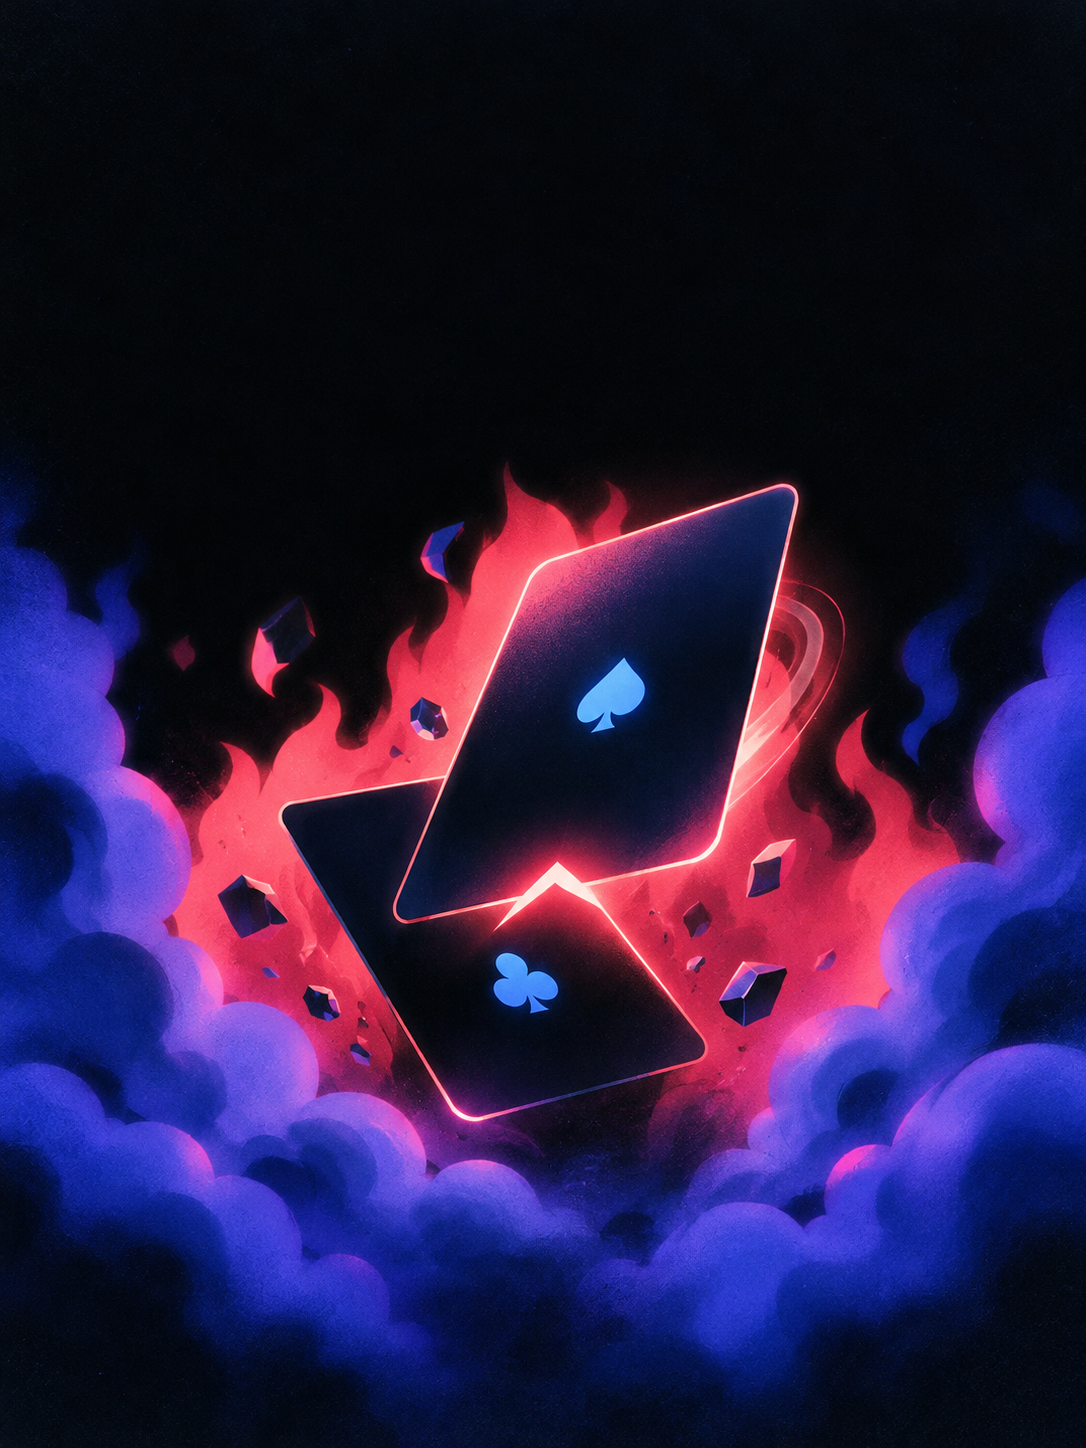
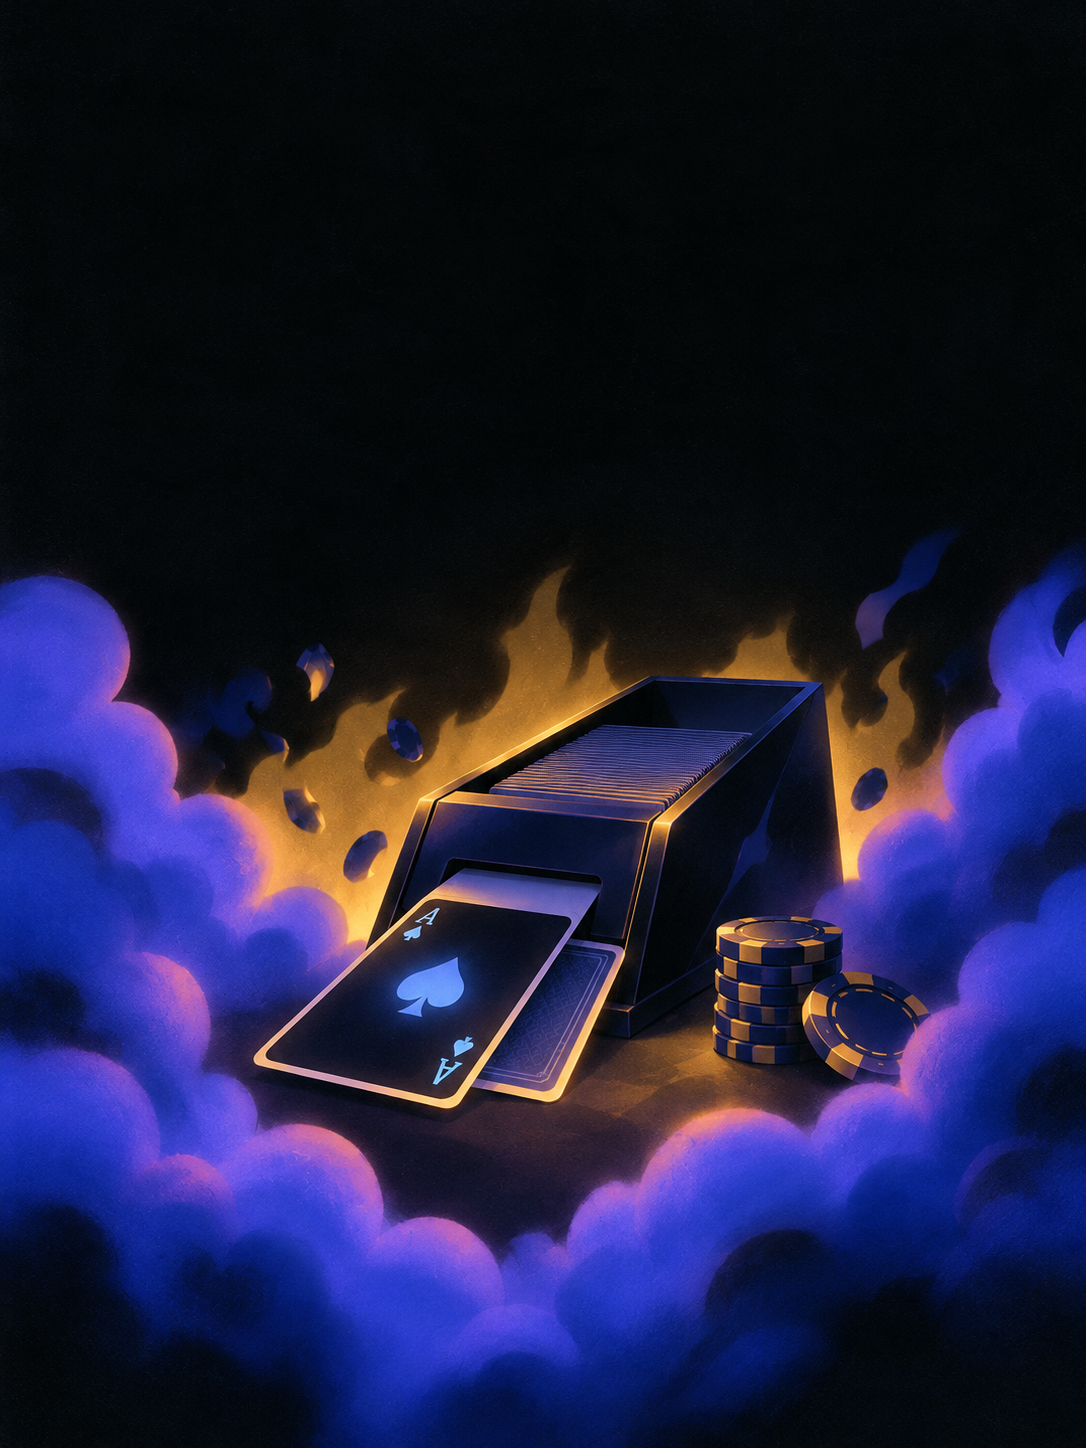
Wire the full art set: all 19 tiles, painted chest, casino-floor hero
Seven new tiles (baccarat, blackjack, flip, hilo, pump, rps, video poker),
a new roulette tile and banner, the open and closed chest frames in place
of the CSS-drawn chest, and a lobby hero with a taller phone crop. Dedupe
the master PNGs under docs/art.

Claude-Session: https://claude.ai/code/session_01JwJ7yz4tnHC44L8sbGWHgU

diff --git a/public/css/app.css b/public/css/app.css
@@ -1545,3 +1545,30 @@ body.chat-open .tabbar .tab-chat{color:var(--accent)}
 .card .art .name small{font-size:9px;font-weight:700;letter-spacing:.18em;color:rgba(255,255,255,.72);text-shadow:0 1px 4px rgba(0,0,0,.6)}
 .card .art:not(.has-img) svg{transform:translateY(8%)}
 @media (max-width:860px){.card .art .name{top:10px;font-size:13px;gap:2px}.card .art .name small{font-size:8px}}
+
+/* ============ v6: painted chest, casino-floor hero ============ */
+.chest{width:calc(190px * var(--sz,1));height:calc(190px * var(--sz,1))}
+.chest .frame{position:absolute;inset:0;width:100%;height:100%;object-fit:contain;transition:opacity .35s ease,transform .5s cubic-bezier(.34,1.25,.5,1);filter:drop-shadow(0 18px 28px rgba(0,0,0,.55))}
+.chest .frame.opened{opacity:0;transform:scale(.96)}
+.chest.open .frame.opened{opacity:1;transform:scale(1)}
+.chest.open .frame.closed{opacity:0;transform:scale(1.04)}
+.chest .glow{inset:-20%;background:radial-gradient(circle,rgba(247,217,138,.7),rgba(230,182,85,.18) 45%,transparent 68%)}
+.chest .coins{left:14%;right:14%;top:8%;height:46%;opacity:0}
+.chest.open .coins{opacity:1}
+.chest .coins .c{width:11%;opacity:0;animation:coinfly 1.1s cubic-bezier(.2,.8,.3,1) forwards}
+.chest.open .coins .c0{left:4%;animation-delay:.05s}.chest.open .coins .c1{left:16%;animation-delay:.18s}.chest.open .coins .c2{left:28%;animation-delay:.08s}.chest.open .coins .c3{left:40%;animation-delay:.26s}.chest.open .coins .c4{left:52%;animation-delay:.12s}.chest.open .coins .c5{left:64%;animation-delay:.3s}.chest.open .coins .c6{left:76%;animation-delay:.16s}.chest.open .coins .c7{left:88%;animation-delay:.22s}.chest.open .coins .c8{left:34%;animation-delay:.36s}
+@keyframes coinfly{0%{opacity:0;transform:translateY(40%) scale(.6)}25%{opacity:1}100%{opacity:0;transform:translateY(-160%) scale(1) rotate(200deg)}}
+.chest-stage{min-height:230px}
+.chest-stage.big{min-height:300px}
+.hero-banner{align-items:flex-start}
+.hero-banner:not(.promo) .hero-img{object-position:center 45%}
+.hero-banner.promo{align-items:flex-start}
+.hero-banner.promo .hero-img{object-position:center 42%}
+.hero-banner::before{background:linear-gradient(90deg,rgba(10,11,13,.86) 0%,rgba(10,11,13,.55) 42%,rgba(10,11,13,.1) 100%),linear-gradient(180deg,rgba(10,11,13,.65),transparent 60%)}
+@media (max-width:860px){
+  .hero-banner,.hero-banner.promo{align-items:flex-start}
+  .hero-img,.hero-banner.promo .hero-img{object-position:center bottom}
+  .hero-banner::before{background:linear-gradient(180deg,rgba(10,11,13,.9) 0%,rgba(10,11,13,.72) 45%,rgba(10,11,13,.25) 75%,rgba(10,11,13,.05) 100%)}
+  .hero-banner.promo{min-height:300px}
+  .chest-stage{min-height:200px}
+}

diff --git a/public/js/app.js b/public/js/app.js
@@ -128,7 +128,7 @@ function landingPage() {
   };
   return h('div', { class: 'stack page landing' },
     h('section', { class: 'hero-banner' },
-      h('img', { class: 'hero-img', src: 'art/roulette-banner.webp', alt: '', decoding: 'async', fetchpriority: 'high' }),
+      heroPicture(true),
       h('div', { class: 'hero-copy' },
         h('div', { class: 'eyebrow' }, '19 games · play money · real odds'),
         h('h1', {}, 'The casino, with the price tag showing'),
@@ -175,6 +175,12 @@ function catCard({ title, text, href, icon, colour }) {
   el.style.setProperty('--c', colour);
   return el;
 }
+/** The painted casino floor behind the hero, with a taller crop for phones. */
+function heroPicture(eager = false) {
+  return h('picture', { class: 'hero-pic' },
+    h('source', { media: '(max-width: 860px)', srcset: 'art/lobby-hero-mobile.webp' }),
+    h('img', { class: 'hero-img', src: 'art/lobby-hero.webp', alt: '', decoding: 'async', fetchpriority: eager ? 'high' : null }));
+}
 /** The lobby hero: whichever reward is live right now, with one call to action. */
 function promoHero(m) {
   const c = m.rewards?.chest, d = m.rewards?.drips || {};
@@ -186,7 +192,7 @@ function promoHero(m) {
   else if (drip) { eyebrow = `${drip[1].label} unlocked`; title = `${fmt(drip[1].available)} AGT to claim`; text = drip[1].blurb; cta = button(`Claim ${fmt(drip[1].available)} AGT`, { kind: 'primary', size: 'lg', onClick: async () => { try { await api.claimDrip(drip[0]); toast('Claimed.', 'good'); render(); } catch (e) { toast(e.message, 'bad'); } } }); }
   else { const t = tierById(m.rewards?.tier); eyebrow = `Welcome back, ${m.user.username}`; title = c && c.wagered > 0 ? `Chest opens in ${until(c.nextAt - Date.now())}` : 'Play to fill the chest'; text = `${t.name} · ${(t.rate * 100).toFixed(1)}% rakeback · hourly, daily and weekly rebates on what you wager.`; cta = h('a', { class: 'btn primary lg', href: '#/rebates' }, h('span', {}, 'Rebates')); }
   return h('section', { class: 'hero-banner promo' },
-    h('img', { class: 'hero-img', src: 'art/roulette-banner.webp', alt: '', decoding: 'async' }),
+    heroPicture(),
     h('div', { class: 'hero-copy' }, h('div', { class: 'eyebrow' }, eyebrow), h('h1', {}, title), h('p', { class: 'lead' }, text), h('div', { class: 'row' }, cta)));
 }
 const FEATURED = [

diff --git a/public/js/chest.js b/public/js/chest.js
@@ -1,4 +1,4 @@
-// The chest: a CSS-drawn treasure chest that fills as you play and opens every six hours.
+// The chest: a painted treasure chest that fills as you play and opens every six hours.
 // It is the oldest retention hook in the business, so the expected value sits right next to it.
 import { api, me } from './api.js';
 import { h, svgUse, button, fmt, toast } from './ui.js';
@@ -7,13 +7,13 @@ import { sound, sleep, countTo, winBurst, ease, haptic } from './fx.js';
 const countdown = (ms) => { const s = Math.max(0, Math.ceil(ms / 1000)); const hh = Math.floor(s / 3600), mm = Math.floor((s % 3600) / 60), ss = s % 60; return hh ? `${hh}h ${String(mm).padStart(2, '0')}m` : `${mm}:${String(ss).padStart(2, '0')}`; };
 const isReady = (c) => c.ready || Date.now() >= c.nextAt;
 
-/** The drawn chest. `size` scales it; the lid opens with the `.open` class. */
+/** The painted chest: closed and open frames cross-fade with the `.open` class. `size` scales it. */
 export function chestEl(size = 1) {
   const el = h('div', { class: 'chest', 'aria-hidden': 'true' },
     h('div', { class: 'glow' }),
-    h('div', { class: 'lid' }, h('i', { class: 'band' }), h('i', { class: 'band r' })),
-    h('div', { class: 'box' }, h('i', { class: 'band' }), h('i', { class: 'band r' }), h('i', { class: 'lock' })),
-    h('div', { class: 'coins' }, ...Array.from({ length: 7 }, (_, i) => h('i', { class: `c c${i}` }))));
+    h('img', { class: 'frame closed', src: 'art/chest-closed.webp', alt: '', decoding: 'async' }),
+    h('img', { class: 'frame opened', src: 'art/chest-open.webp', alt: '', decoding: 'async' }),
+    h('div', { class: 'coins' }, ...Array.from({ length: 9 }, (_, i) => h('i', { class: `c c${i}` }))));
   el.style.setProperty('--sz', String(size));
   return el;
 }

diff --git a/public/js/games/index.js b/public/js/games/index.js
@@ -30,6 +30,6 @@ export const GAME_ICON = { limbo: 'ph-rocket-launch', mines: 'ph-bomb', dice: 'p
 export const GAME_COLOR = { limbo: '#1d4ed8', mines: '#3f3f46', dice: '#4338ca', crash: '#be123c', tower: '#047857', hilo: '#9f1239', plinko: '#0369a1', keno: '#b45309', videopoker: '#0f766e', blackjack: '#a16207', chicken: '#c2410c', pump: '#db2777', flip: '#ca8a04', rps: '#7c3aed', slide: '#0e7490', wheel: '#9333ea', baccarat: '#166534', roulette: '#991b1b', diamonds: '#0891b2' };
 
 /** Game ids that have artwork at public/art/<id>.webp. Add an id here after dropping the file in. */
-export const ART = new Set(['roulette', 'chicken', 'crash', 'diamonds', 'dice', 'keno', 'limbo', 'mines', 'plinko', 'slide', 'tower', 'wheel']);
+export const ART = new Set(['roulette', 'chicken', 'crash', 'diamonds', 'dice', 'keno', 'limbo', 'mines', 'plinko', 'slide', 'tower', 'wheel', 'baccarat', 'blackjack', 'flip', 'hilo', 'pump', 'rps', 'videopoker']);
 /** Wide 2:1 banners at public/art/<id>-banner.webp for the featured cards. */
 export const BANNERS = new Set(['roulette', 'chicken', 'crash']);

diff --git a/docs/art-prompts.md b/docs/art-prompts.md
@@ -105,9 +105,10 @@ For each game save `public/art/<id>.webp` at 600 by 800 and, for featured games,
 `public/js/games/index.js`. Ids: limbo, mines, dice, crash, tower, plinko, keno, wheel, slide,
 diamonds, chicken, pump, hilo, flip, rps, blackjack, videopoker, baccarat, roulette.
 
-Already delivered in the old all-violet palette and worth regenerating first, in order of how
-much they clash in the lobby: limbo, mines, dice, tower, plinko, keno, wheel, slide, diamonds.
-Crash and Chicken are warm already and can wait.
+All nineteen tiles, the three banners, both chests and the lobby hero are delivered and wired in
+the old all-violet palette. Regenerate in this order, worst clash first: limbo, mines, dice,
+tower, plinko, keno, wheel, slide, diamonds, rps, pump, hilo, videopoker, baccarat, blackjack,
+flip. Crash, Chicken and Roulette are warm already and can wait.
 
 ## One worked example
 
